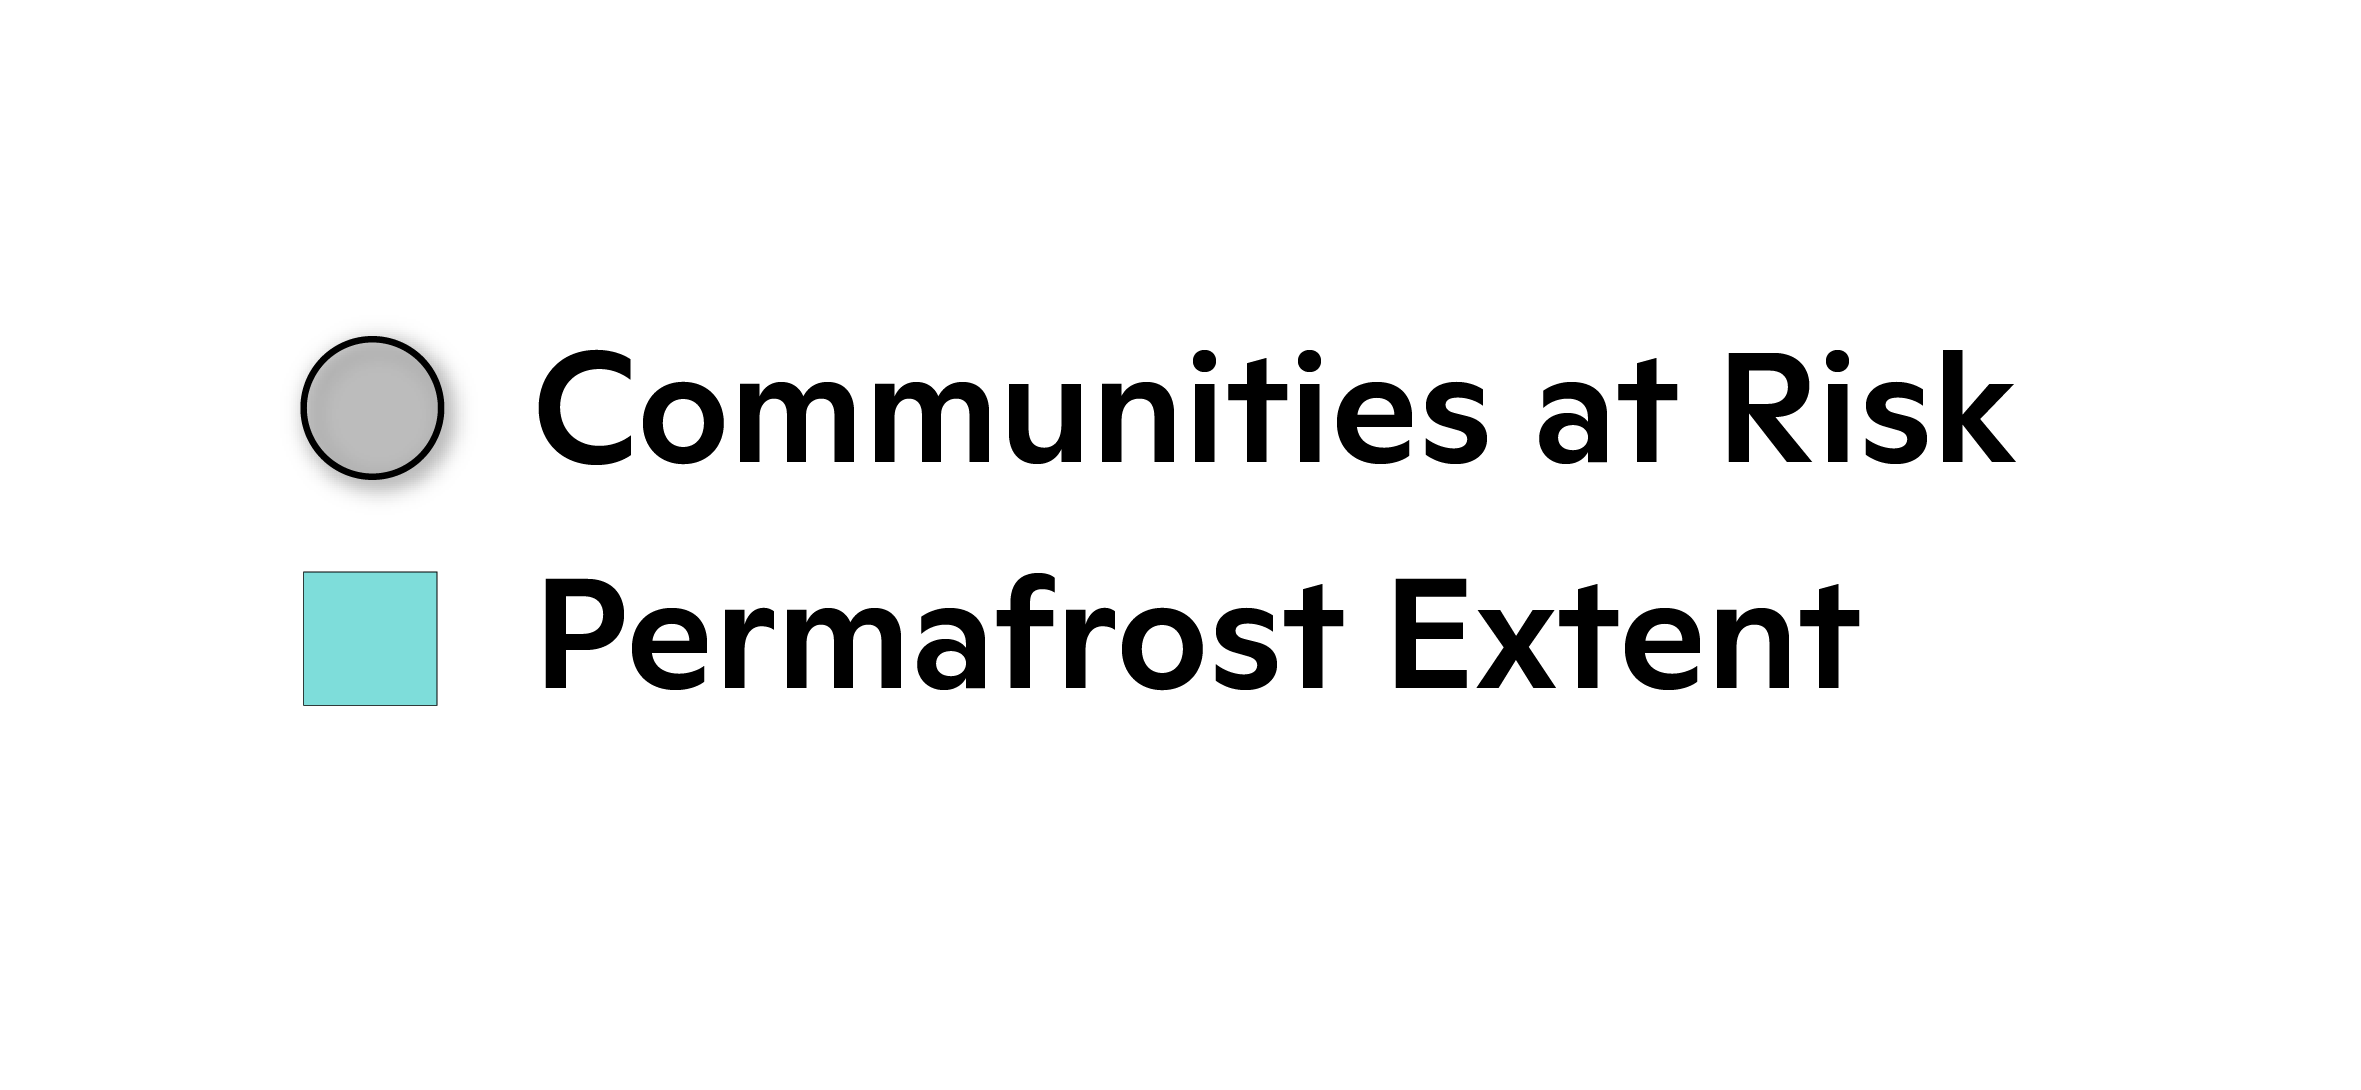
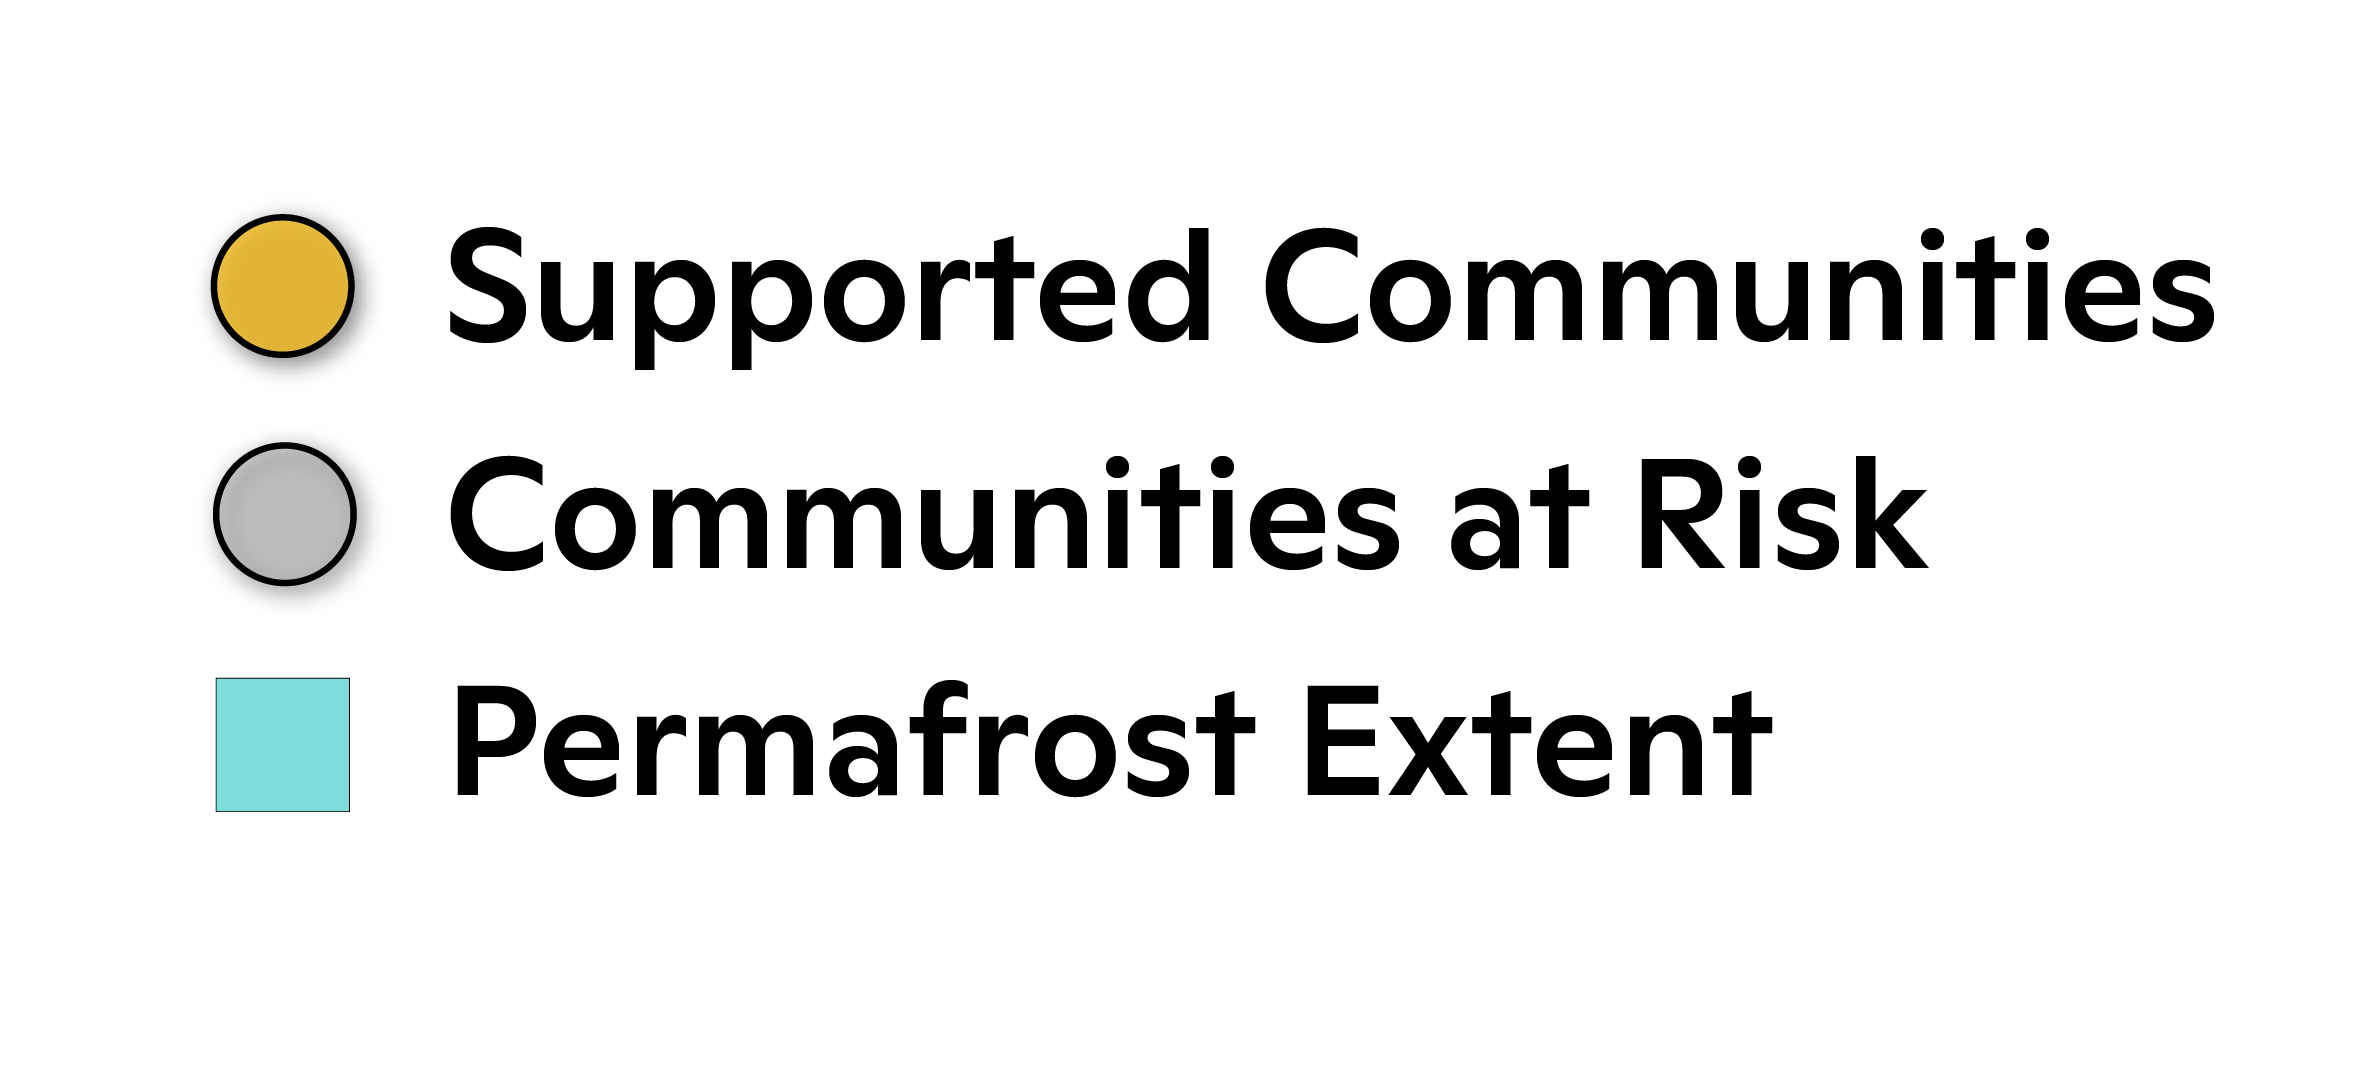
updated

Changed region(s): [[0.0618, 0.1872, 0.9585, 0.7486]]

diff --git a/communitiesAtRisk.html b/communitiesAtRisk.html
@@ -137,7 +137,7 @@
         // supported
         const csvLayer2 = new CSVLayer({
           url: "https://gfiske.github.io/ArcticMaps/communities.csv",
-          definitionExpression: "pp = 1",
+          definitionExpression: "supported = 1",
           popupTemplate: template,
           copyright: "sites",
           renderer: csvRenderer2,
@@ -189,7 +189,7 @@
               })
             ]
           },
-          layers: [permaFrost2070, permaFrost2020, csvLayer2, csvLayer]
+          layers: [permaFrost2070, permaFrost2020, csvLayer, csvLayer2]
         });
 
         const view = new MapView({
